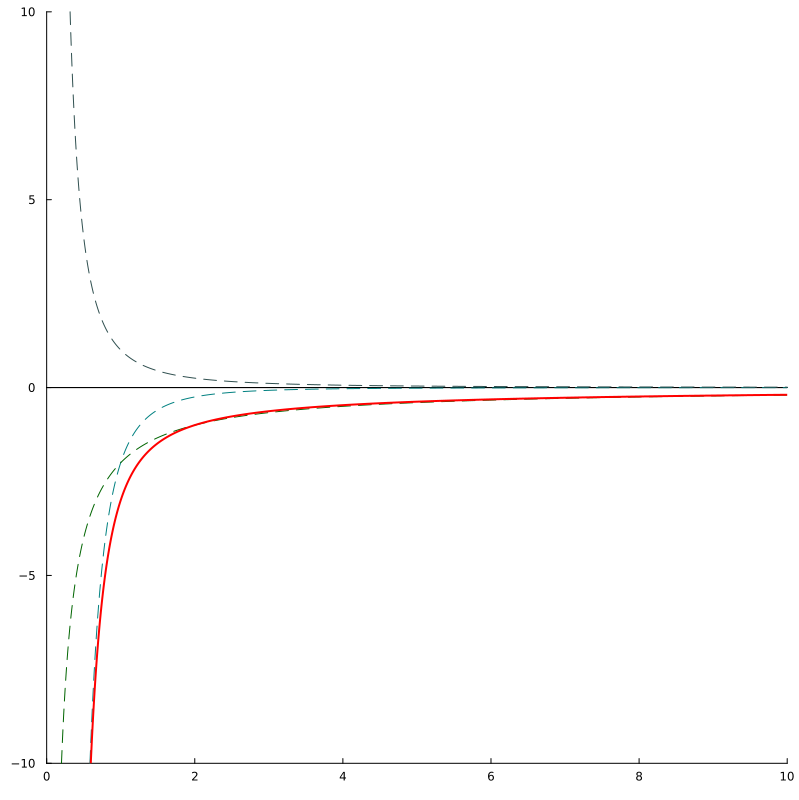
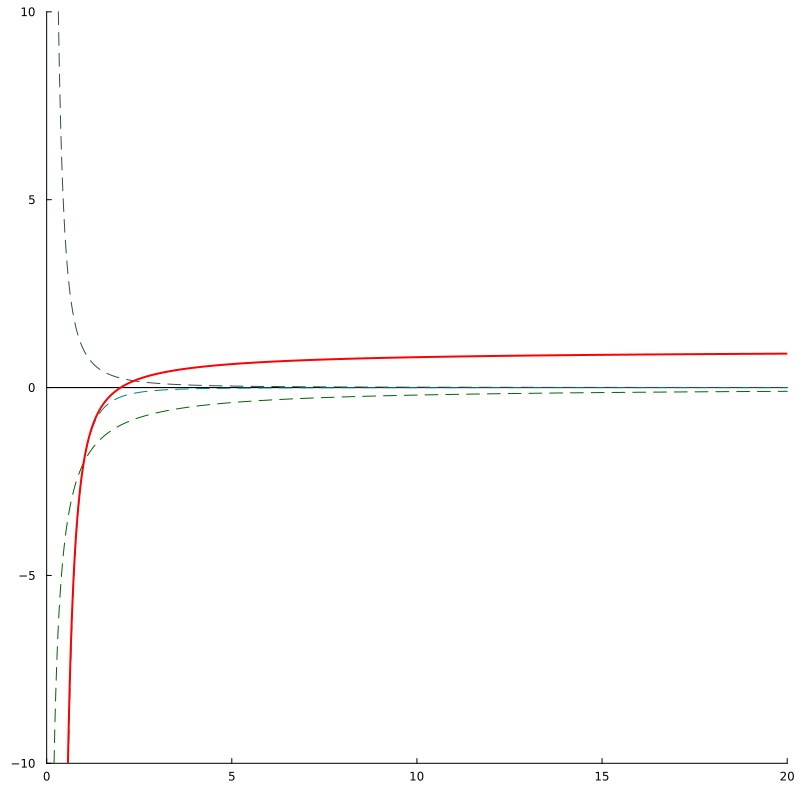
update: 6/1

diff --git a/README.md b/README.md
@@ -1,1 +1,44 @@
-# 研究データのバックアップ
+# 研究のバックアップ
+
+
+## julia
+自分の卒業研究では、興味の持ったものをできる限り追求してみることにした。  
+その一環として、プログラミング言語も、自分の興味がある julia を採用した。
+___
+### ファイル名の規約
+codes フォルダのと images フォルダと tex の images フォルダは対応関係にあり  
+
+例えば  
+`codes/schwarzschild/01.jl`  
+`images/schwarzschild/01.png`  
+`tex/lerning/images/schwarzschild/01.png`  
+のファイルが対応関係にある。
+
+`codes/schwarzschild/01.jl`  
+で作成した画像が  
+`images/schwarzschild/01.png`  
+で、これを編集したものが  
+`tex/lerning/images/schwarzschild/01.png`  
+___
+### codes の説明
+
+#### schwarzschild
+
+以下の式を plot した
+$$
+V_{eff}(r) = - \frac{2Ml^2}{r^3} + \frac{l^2}{r^2} - \frac{2M}{r} + 1
+$$
+
+**01.jl**  
+極値を持つ場合  
+$M=1$ $l=4$ で plot し、見やすいように拡大
+
+**02.jl**  
+極値を持つ場合  
+$M=1$ $l=4$ で plot し、全体像がわかりやすいように縮小
+
+**03.jl**  
+極値を持たない場合  
+$M=1$ $l=1$ で plot
+
+
